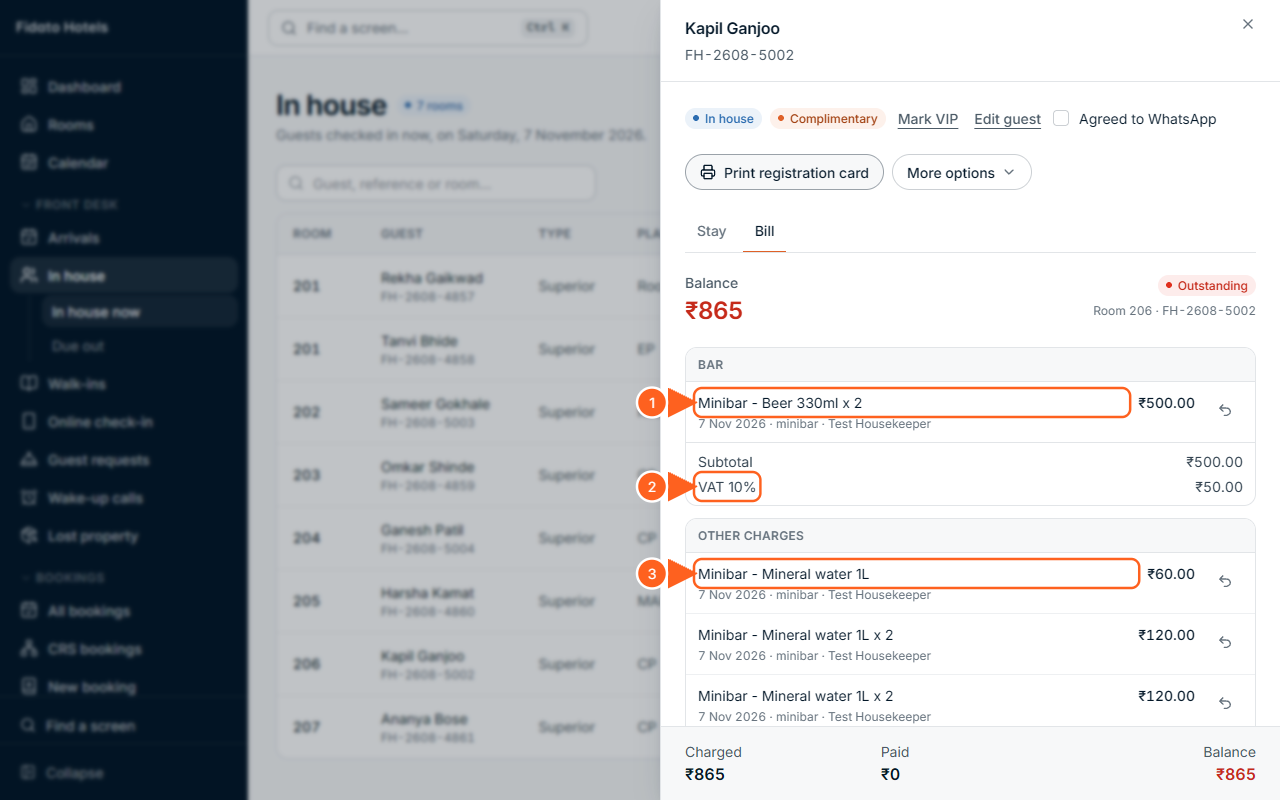
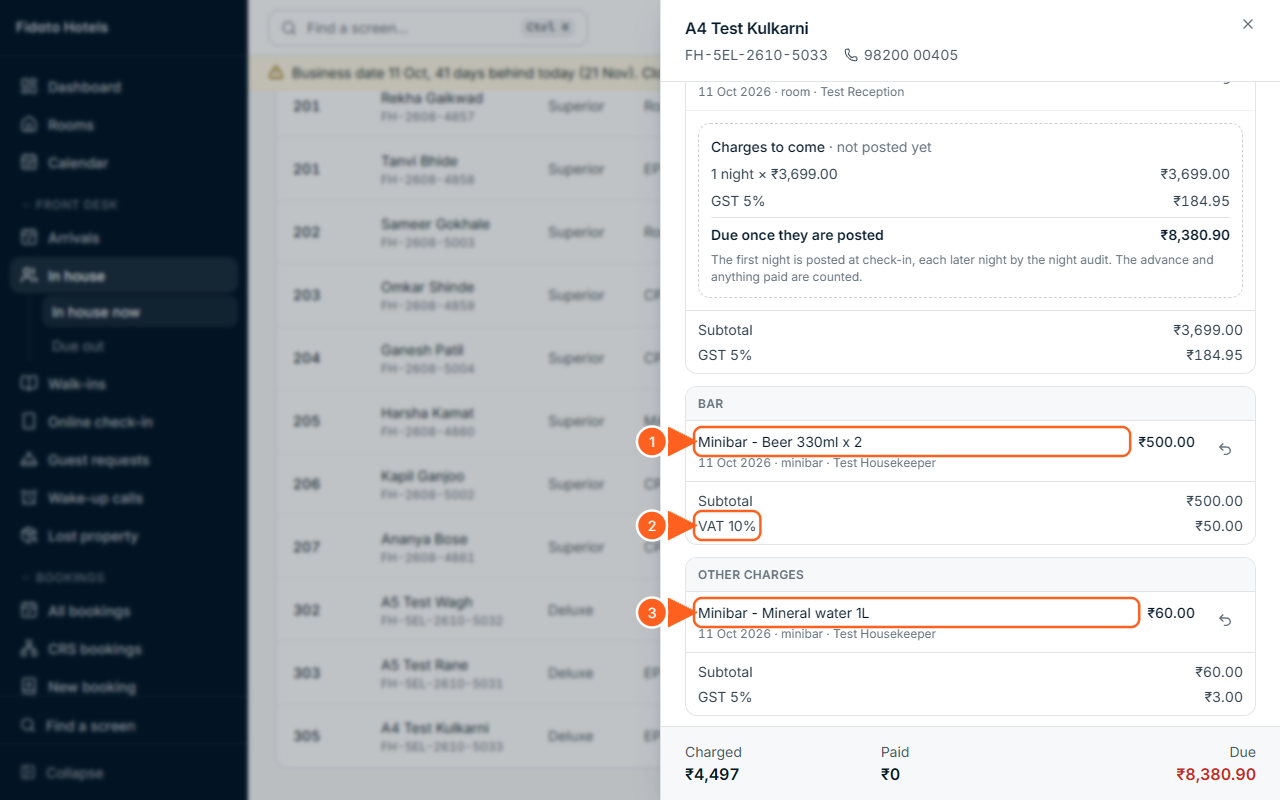
Book retakes 2, A4: A4-06m with the chapter's guest (D27-399)

diff --git a/docs/manual/manual.html b/docs/manual/manual.html
@@ -2836,7 +2836,7 @@ figure.shot.phone img { max-width: 72mm; }
   <p>What housekeeping records from a room's minibar (A6.12) reaches the bill by itself, one line per item: <span class="ui">Minibar - Mineral water 1L</span>, or <span class="ui">Minibar - Beer 330ml x 2</span> for two, with the date, the category <span class="ui">minibar</span> and who recorded it. Snacks and soft drinks go under <span class="ui">Other charges</span> at the restaurant's GST; a drink from the bar's register goes under <span class="ui">Bar</span> with the VAT on alcohol, never GST, and is on the VAT bill with the rest of the bar (A4.11). A wrong one is reversed like any other line (A4.4).</p>
 
   <figure class="shot" id="fig-A4-06m">
-    <img src="img/A4-06m.png" alt="The bill of room 206: Minibar - Beer 330ml x 2 under Bar with VAT 10%, and Minibar - Mineral water 1L under Other charges, each recorded by Test Housekeeper">
+    <img src="img/A4-06m.png" alt="The bill of A4 Test Kulkarni, room 305: Minibar - Beer 330ml x 2 under Bar with VAT 10%, and Minibar - Mineral water 1L under Other charges, each recorded by Test Housekeeper">
     <figcaption><b>Figure A4-06m.</b> The minibar on the bill.</figcaption>
     <ol class="callouts">
       <li>A drink: under Bar</li>

diff --git a/docs/manual/chapters/a4.html b/docs/manual/chapters/a4.html
@@ -145,7 +145,7 @@
   <p>What housekeeping records from a room's minibar (A6.12) reaches the bill by itself, one line per item: <span class="ui">Minibar - Mineral water 1L</span>, or <span class="ui">Minibar - Beer 330ml x 2</span> for two, with the date, the category <span class="ui">minibar</span> and who recorded it. Snacks and soft drinks go under <span class="ui">Other charges</span> at the restaurant's GST; a drink from the bar's register goes under <span class="ui">Bar</span> with the VAT on alcohol, never GST, and is on the VAT bill with the rest of the bar (A4.11). A wrong one is reversed like any other line (A4.4).</p>
 
   <figure class="shot" id="fig-A4-06m">
-    <img src="img/A4-06m.png" alt="The bill of room 206: Minibar - Beer 330ml x 2 under Bar with VAT 10%, and Minibar - Mineral water 1L under Other charges, each recorded by Test Housekeeper">
+    <img src="img/A4-06m.png" alt="The bill of A4 Test Kulkarni, room 305: Minibar - Beer 330ml x 2 under Bar with VAT 10%, and Minibar - Mineral water 1L under Other charges, each recorded by Test Housekeeper">
     <figcaption><b>Figure A4-06m.</b> The minibar on the bill.</figcaption>
     <ol class="callouts">
       <li>A drink: under Bar</li>

diff --git a/docs/manual/CHANGELOG.md b/docs/manual/CHANGELOG.md
@@ -2,6 +2,8 @@
 
 One line per chapter and picture set, in the order they were committed; the decision numbers are the owner's.
 
+- 21 Nov, A4 (D27-399, book retakes 2): A4-06m retaken with the chapter's guest, A4 Test Kulkarni (room 305), not another hotel's Kapil Ganjoo on 7 Nov: the minibar's water and beer were recorded through the Minibar record for his room, with the alcohol switched on, a 10% VAT rule and a beer on the minibar list in the demo; the arrows and their list are unchanged; a4.mjs has a set-up step for his walk-in (A4-S6m).
+
 - 21 Nov, A5 (D27-399, book retakes 2): A5-T3 (Figure A5-04) retaken tall, so its three arrows meet the heading, the Print button and Balance due (two floated at the top before); A5-T6 (Figure A5-03) retaken with arrow 2 below the Check out button, off the Proforma bill button; the callout lists are unchanged.
 
 - 21 Nov, A12 (D27-399, book retakes 2): A12-02, 03, 04 and 05 retaken on the demo of 11 Oct with Approvals at the top of the menu after the Dashboard, where they showed it under System; arrows unchanged (the two purchase requests are the run's, the GM's cash expense of ₹200 from the restaurant tin is made through the till's own paid-out).
